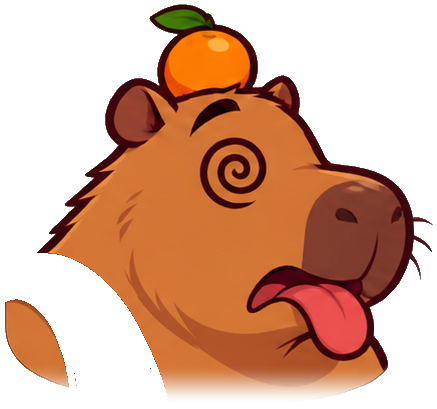
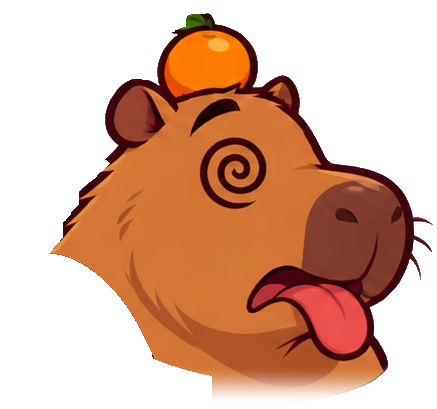
Seu Capivas: towel over the arm, trim neck scrap; rewrite parts v2 request
Towel drawn above the front arm; the jagged scruff scrap behind the
towel trimmed from the faces. The parts v2 prompt now asks for a body
built like the concept (exact profile, shoulders and hump inside the
torso, sausage arms without socket caps, shins coming out of the shorts
hem) with fixes for common ChatGPT mistakes.

diff --git a/art/prompts/pedidos/seu_capivas/01_partes_v2.md b/art/prompts/pedidos/seu_capivas/01_partes_v2.md
@@ -1,36 +1,32 @@
-# Seu Capivas — 01 · Partes v2 (mais articulações)
+# Seu Capivas — 01 · Partes v2 (feitas para o corpo dele)
 
-**Prioridade: máxima.** Hoje ele tem 12 peças: mão e chinelo estão grudados no antebraço e na canela, e a barra da bermuda aparece duplicada no joelho. Com as peças abaixo dá para dobrar punho, tornozelo, cintura e fazer a barriga e a toalha balançarem.
+**Prioridade: máxima.** As partes v1 foram desenhadas como um boneco articulado genérico: ombro em forma de bola, pescoço fino, braço com "tampa" redonda no cotovelo, barra da bermuda repetida no joelho e tronco meio de frente, meio de lado. No jogo isso aparece como juntas estranhas, cabeça mal encaixada e pernas "quebradas". Estas partes v2 seguem o jeito do conceito: **grandalhão, cabeça baixa num cangote largo, ombros enormes, pernas curtas saindo da bermuda.**
 
-**Na conversa do Seu Capivas, anexe:** `art/conceitos/seu_capivas/folha_v1.png` e `art/conceitos/seu_capivas/partes_v1.png`.
+**Na conversa do Seu Capivas, anexe:** `art/conceitos/seu_capivas/folha_v1.png` (o conceito aprovado) e `art/conceitos/seu_capivas/cabecas_v1.png` (as cabeças com cangote, que já estão no jogo).
 
-## Mensagem 1: as peças
+## Mensagem 1: corpo, braços e pernas
 
 ```text
-Vamos refazer a folha de partes do Seu Capivas para animação por recorte (cutout), com MAIS articulações. Use exatamente o mesmo personagem da folha anexada: mesmas cores, mesma laranjinha na cabeça, mesma toalha, mesma bermuda florida, mesma pochete, mesmo chinelo, mesmo contorno cor vinho e mesmo cel shading em 2 tons.
+Vamos refazer as partes do Seu Capivas para animação por recorte (cutout) num jogo de luta 2D. Use exatamente o personagem da folha anexada (mesmas cores, bermuda florida, pochete, chinelo, contorno cor vinho e cel shading em 2 tons) e o mesmo tamanho das cabeças anexadas.
 
-Desenhe cada peça SEPARADA, sem encostar em nenhuma outra, com bastante espaço vazio entre elas, todas na MESMA ESCALA, vistas de perfil olhando para a DIREITA, em fundo TRANSPARENTE (PNG):
+TUDO de perfil EXATO olhando para a DIREITA (nada de 3/4, nada de barriga de frente), fundo TRANSPARENTE (PNG), peças SEPARADAS com bastante espaço entre elas, todas na MESMA ESCALA:
 
-1. cabeça com a laranjinha (sem pescoço)
-2. peito e ombros (sem braços, sem a barriga de baixo)
-3. barriga com a pochete
-4. quadril com a parte de cima da bermuda
-5. braço (ombro até o cotovelo)
-6. antebraço (cotovelo até o punho, SEM a mão)
-7. mão aberta e relaxada
-8. coxa com a bermuda (a barra da bermuda fica SÓ aqui, no joelho)
-9. canela SEM bermuda (joelho até o tornozelo, SEM o pé)
-10. pé com chinelo de dedo
-11. toalha dividida em 2 pedaços: a parte do ombro e a ponta pendurada
-12. cauda (toquinho)
-13. laranjinha solta (para quicar quando ele leva golpe)
+1. TRONCO: peito, barriga e quadril numa peça só, já com os ombros grandes e arredondados, a corcunda das costas e a parte de cima da bermuda com a pochete. SEM pescoço e SEM braços. A parte de cima do tronco termina larga e arredondada (a cabeça com cangote vai ficar por cima dela).
+2. BRAÇO (ombro até o cotovelo): um "salsichão" grosso. A ponta de cima é só arredondada, na mesma cor do pelo, porque fica escondida dentro do ombro.
+3. ANTEBRAÇO (cotovelo até o punho, sem a mão): ponta do cotovelo arredondada, mesma cor do pelo, sem círculo nem tampa.
+4. MÃO aberta e relaxada.
+5. PERNA DA BERMUDA (quadril até o joelho): a perna da bermuda florida com a barra no fim. A coxa fica toda escondida dentro da bermuda.
+6. CANELA (joelho até o tornozelo, sem o pé): só pelo, SEM nenhum pedaço de bermuda, com a ponta de cima arredondada (ela entra por baixo da barra).
+7. PÉ com chinelo de dedo.
+8. TOALHA em 2 pedaços: a dobra que fica em cima do ombro e a ponta pendurada.
+9. CAUDA (toquinho).
 
 Regras importantes:
-- NÃO desenhe bolinhas, círculos, pinos ou discos nas juntas. Cada ponta de encaixe é arredondada e tem a mesma cor e textura da própria peça, como se continuasse por baixo da peça vizinha.
-- As peças que se encaixam devem ter uma sobra arredondada na ponta (uns 10% do tamanho da peça) para sobrepor sem abrir buraco quando dobrar.
-- Braço, antebraço, mão, coxa, canela e pé: uma versão só de cada (eu reaproveito para o lado de trás).
+- NÃO desenhe bolinhas, círculos, pinos, tampas ou discos em nenhuma junta.
+- Cada ponta que encaixa em outra peça é só arredondada, na mesma cor e textura da peça, como se continuasse por baixo da vizinha.
+- Braço, antebraço, mão, perna da bermuda, canela e pé: uma versão de cada (eu uso a mesma para o lado de trás).
 - Peças retas, em posição neutra: braço e perna esticados para baixo.
-- Sem texto, sem números, sem sombra no chão, sem fundo.
+- Sem texto, sem números, sem sombra no chão.
 ```
 
 Salve como: `art/conceitos/seu_capivas/partes_v2.png`
@@ -38,16 +34,22 @@ Salve como: `art/conceitos/seu_capivas/partes_v2.png`
 ## Mensagem 2: guia de montagem
 
 ```text
-Agora monte o Seu Capivas com exatamente essas mesmas peças, de perfil para a direita, em pé e parado, braços e pernas esticados para baixo. Mesma escala das peças. Fundo transparente. É só para eu conferir onde cada peça encaixa.
+Agora monte o Seu Capivas com exatamente essas mesmas peças e a cabeça zen das cabeças anexadas: de perfil EXATO para a direita, em pé, braços e pernas esticados para baixo. A cabeça fica baixa, com o cangote por cima dos ombros (sem pescoço aparecendo), como no conceito. A toalha fica por cima do ombro, na frente de tudo. Mesma escala das peças, fundo transparente.
 ```
 
 Salve como: `art/conceitos/seu_capivas/montagem_v2.png`
 
+## Se o ChatGPT errar
+
+- **Veio com bolinha ou tampa nas juntas:** `Tire as bolinhas e tampas das juntas: as pontas devem ser só arredondadas, na mesma cor do pelo.`
+- **Tronco meio de frente:** `O tronco tem que estar de perfil exato, igual à vista de lado do conceito: barriga apontando para a direita.`
+- **Barra da bermuda na canela:** `A canela é só pelo: a barra da bermuda fica apenas no fim da perna da bermuda.`
+- **Peças de tamanhos diferentes:** peça em duas imagens (primeiro tronco, toalha e cauda; depois braços e pernas), anexando a primeira na segunda e pedindo "mesma escala".
+
 ## Como conferir antes de salvar
 
-- [ ] Todas as 13 peças aparecem separadas, sem encostar.
-- [ ] A barra da bermuda aparece só na coxa (não repete na canela).
-- [ ] Nenhuma bolinha ou disco nas pontas.
-- [ ] Mesmas cores e mesmo traço da folha v1.
-
-Se vier alguma bolinha, mande: `Tire as bolinhas das juntas: as pontas devem ter a mesma cor da peça, sem círculos.`
+- [ ] Tudo de perfil exato, nada de 3/4.
+- [ ] Nenhuma bolinha, tampa ou disco nas pontas.
+- [ ] Ombros e corcunda dentro do tronco; sem pescoço fino.
+- [ ] Barra da bermuda só na perna da bermuda.
+- [ ] Montagem com a cabeça baixa no cangote, como no conceito.
